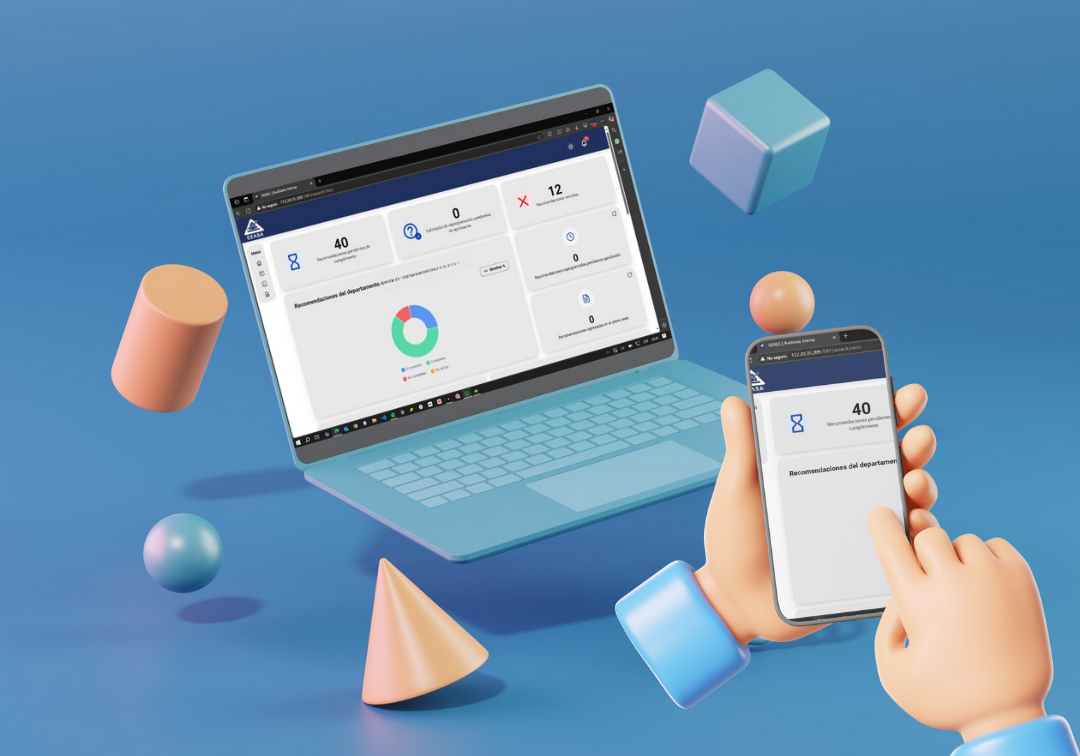
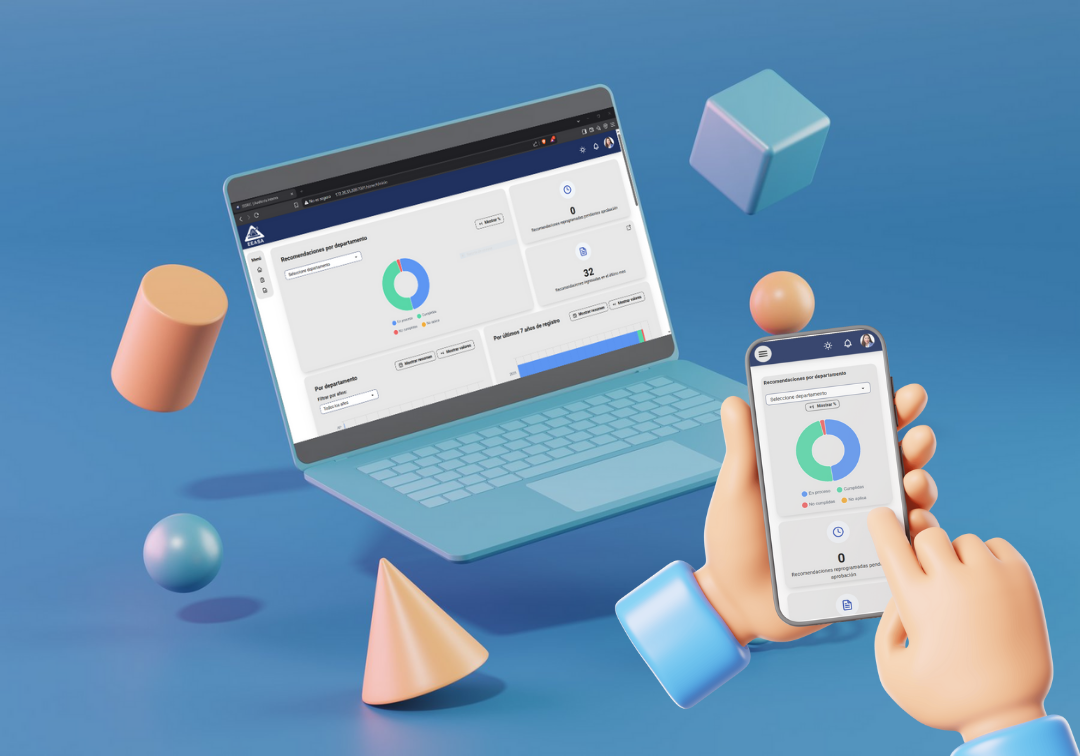
GUI fixes implemented

diff --git a/src/app/components/navbar/navbar.component.ts b/src/app/components/navbar/navbar.component.ts
@@ -8,11 +8,13 @@ import { MenuItem } from 'primeng/api';
 import { ToggleButtonModule } from 'primeng/togglebutton';
 import { FormsModule } from '@angular/forms';
 import { ToolbarModule } from 'primeng/toolbar';
+import { TooltipModule } from 'primeng/tooltip';
+import { MenuModule } from 'primeng/menu';
 
 @Component({
   selector: 'app-navbar',
   standalone: true,
-  imports: [MenubarModule, CommonModule, RouterModule, ToggleButtonModule, FormsModule, ToolbarModule],
+  imports: [MenubarModule, CommonModule, RouterModule, ToggleButtonModule, FormsModule, ToolbarModule, TooltipModule, MenuModule],
   templateUrl: './navbar.component.html',
   styleUrl: './navbar.component.css'
 })
@@ -22,6 +24,7 @@ export class NavbarComponent implements OnInit {
   menuOptions: MenuOptions[] | undefined;
   supabaseService = inject(SupabaseService);
   router = inject(Router);
+
 
   ngOnInit(): void {
     this.getMenuOptions();
@@ -43,8 +46,6 @@ export class NavbarComponent implements OnInit {
     try {
       this.menuOptions = await this.supabaseService.getMenuOptions();
       this.transformMenuOptions();
-      console.log('Opciones originales:', this.menuOptions);
-      console.log('Opciones transformadas:', this.menuItems);
     } catch (error) {
       console.error('Error al obtener las opciones del menú:', error);
     }
@@ -56,7 +57,11 @@ export class NavbarComponent implements OnInit {
         label: option.option_name,
         icon: option.icon,
         routerLink: this.navbarResumeOrOthers( option.url ),
-        command: () => this.navbarResumeOrOthers( option.url ) === true ? this.downloadPdfFromUrl() : null
+        command: () => {
+          if (this.navbarResumeOrOthers(option.url) === true) {
+            this.downloadPdfFromUrl();
+          }
+        }
       }));
     }
   }

diff --git a/src/app/components/navbar/navbar.component.css b/src/app/components/navbar/navbar.component.css
@@ -3,3 +3,107 @@
   top: 0;
   z-index: 100;
 }
+
+/* Mejoras de diseño y responsividad */
+@media (max-width: 640px) {
+  .navbar-sticky {
+    padding-left: 0.5rem;
+    padding-right: 0.5rem;
+  }
+  .sm\:block {
+    display: none !important;
+  }
+  .sm\:hidden {
+    display: block !important;
+  }
+}
+
+@media (min-width: 641px) {
+  .sm\:block {
+    display: block !important;
+  }
+  .sm\:hidden {
+    display: none !important;
+  }
+}
+
+.absolute {
+  position: absolute;
+}
+.top-16 {
+  top: 4rem;
+}
+.left-0 {
+  left: 0;
+}
+.z-50 {
+  z-index: 50;
+}
+.bg-white {
+  background: #fff;
+}
+.shadow-lg {
+  box-shadow: 0 4px 16px rgba(0,0,0,0.12);
+}
+.rounded {
+  border-radius: 0.5rem;
+}
+.hover\:bg-gray-200:hover {
+  background: #e5e7eb;
+}
+.focus\:outline-none:focus {
+  outline: none;
+}
+.animate__animated {
+  animation-duration: 0.3s;
+  animation-fill-mode: both;
+}
+.animate__fadeInDown {
+  animation-name: fadeInDown;
+}
+@keyframes fadeInDown {
+  from {
+    opacity: 0;
+    transform: translate3d(0, -20%, 0);
+  }
+  to {
+    opacity: 1;
+    transform: none;
+  }
+}
+.gap-2 {
+  gap: 0.5rem;
+}
+.h-8 {
+  height: 2rem;
+}
+.w-8 {
+  width: 2rem;
+}
+.font-bold {
+  font-weight: bold;
+}
+.text-xl {
+  font-size: 1.25rem;
+}
+.text-2xl {
+  font-size: 1.5rem;
+}
+.text-lg {
+  font-size: 1.125rem;
+}
+.flex {
+  display: flex;
+}
+.items-center {
+  align-items: center;
+}
+.justify-between {
+  justify-content: space-between;
+}
+.ml-2 {
+  margin-left: 0.5rem;
+}
+.w-full {
+  width: 100%;
+}

diff --git a/src/app/components/navbar/navbar.component.html b/src/app/components/navbar/navbar.component.html
@@ -1,20 +1,21 @@
-<p-toolbar class="navbar-sticky w-full px-3 md:px-5 lg:px-6 xl:px-8" styleClass="m-3 shadow-4">
-  <div class="flex align-items-center w-full justify-content-between">
-    <!-- Menú  -->
-    <div class="flex align-items-center">
-      <p-menubar [model]="menuItems" styleClass="border-none shadow-2 bg-transparent p-0" />
+<p-toolbar class="w-full navbar-sticky lg:px-6 xl:px-8" styleClass="m-3 shadow-7 border-round-xl">
+  <div class="flex align-items-center justify-content-between w-full gap-2">
+    <!-- Menú horizontal siempre centrado -->
+    <div class="flex-grow-1">
+      <p-menubar [model]="menuItems" styleClass="border-none bg-transparent p-2 text-xl w-full justify-content-center" />
     </div>
-    
-    <!-- Botón de tema -->
-    <div class="flex align-items-center">
+    <!-- Botón de tema siempre a la derecha -->
+    <div class="flex align-items-center justify-content-end" >
       <p-togglebutton
         [(ngModel)]="dark"
-        [onIcon]="'pi pi-sun'"
-        [offIcon]="'pi pi-moon'"
-        [onLabel]="'Light'"
-        [offLabel]="'Dark'"
+        [onIcon]="'pi pi-moon'"
+        [offIcon]="'pi pi-sun'"
+        [onLabel]="'Dark'"
+        [offLabel]="'Light'"
         (onChange)="toggleDark()"
         styleClass="ml-2"
+        [pTooltip]="'Change theme'"
+        tooltipPosition="bottom"
       ></p-togglebutton>
     </div>
   </div>

diff --git a/src/app/pages/about/about.component.ts b/src/app/pages/about/about.component.ts
@@ -60,7 +60,6 @@ export class AboutComponent {
   emailService: EmailService = inject(EmailService);
   contactForm: FormGroup;
   messageService: MessageService = inject(MessageService);
-  githubCalendar: any;
 
   constructor(
     private fb: FormBuilder
@@ -107,7 +106,10 @@ export class AboutComponent {
       severity: 'success',
       summary: 'Success',
       detail: message,
-      life: 3000
+      life: 3000,
+      closable: true,
+      icon: 'pi pi-check',
+      styleClass: 'my-toast-responsive'
     });
   }
 
@@ -116,7 +118,10 @@ export class AboutComponent {
       severity: 'error',
       summary: 'Error',
       detail: message,
-      life: 3000
+      life: 3000,
+      closable: true,
+      icon: 'pi pi-exclamation-triangle',
+      styleClass: 'my-toast-responsive'
     });
   }
 

diff --git a/src/app/components/footer/footer.component.html b/src/app/components/footer/footer.component.html
@@ -33,7 +33,7 @@
                 <a href="https://github.com/carlomagnowhite" target="_blank" class="p-button p-button-rounded p-button-text">
                     <i class="pi pi-github text-xl"></i>
                 </a>
-                <a href="https://www.linkedin.com/in/mateo-díaz-gómez-044966216" target="_blank" class="p-button p-button-rounded p-button-text">
+                <a href="https://www.linkedin.com/in/mateo-diaz-gomez" target="_blank" class="p-button p-button-rounded p-button-text">
                     <i class="pi pi-linkedin text-xl"></i>
                 </a>
                 <a href="https://wa.me/593983201121" target="_blank" class="p-button p-button-rounded p-button-text">

diff --git a/src/app/pages/home/home.component.html b/src/app/pages/home/home.component.html
@@ -14,7 +14,7 @@
             <a href="https://gitlab.com/matt.diaz.gomez" target="_blank">
               <i class="devicon-gitlab-plain-wordmark colored" style="font-size: 2.5rem"></i>
             </a>
-            <a href="https://www.linkedin.com/in/mateo-díaz-gómez-044966216" target="_blank">
+            <a href="https://www.linkedin.com/in/mateo-diaz-gomez" target="_blank">
               <i class="devicon-linkedin-plain colored" style="font-size: 2.5rem"></i>
             </a>
             <a href="mailto:mateo19dg@gmail.com" target="_blank">

diff --git a/src/styles.css b/src/styles.css
@@ -14,3 +14,14 @@ body {
     background-color: var(--surface-ground);
     color: var(--text-color);
 }
+
+
+/* En móvil, hazlo más pequeño y centrado */
+@media (max-width: 600px) {
+  .my-toast-responsive {
+    max-width: 80%;
+    font-size: 0.85rem;
+    transform: translateX(10%) !important;
+    margin: 0 auto !important;
+  }
+}
